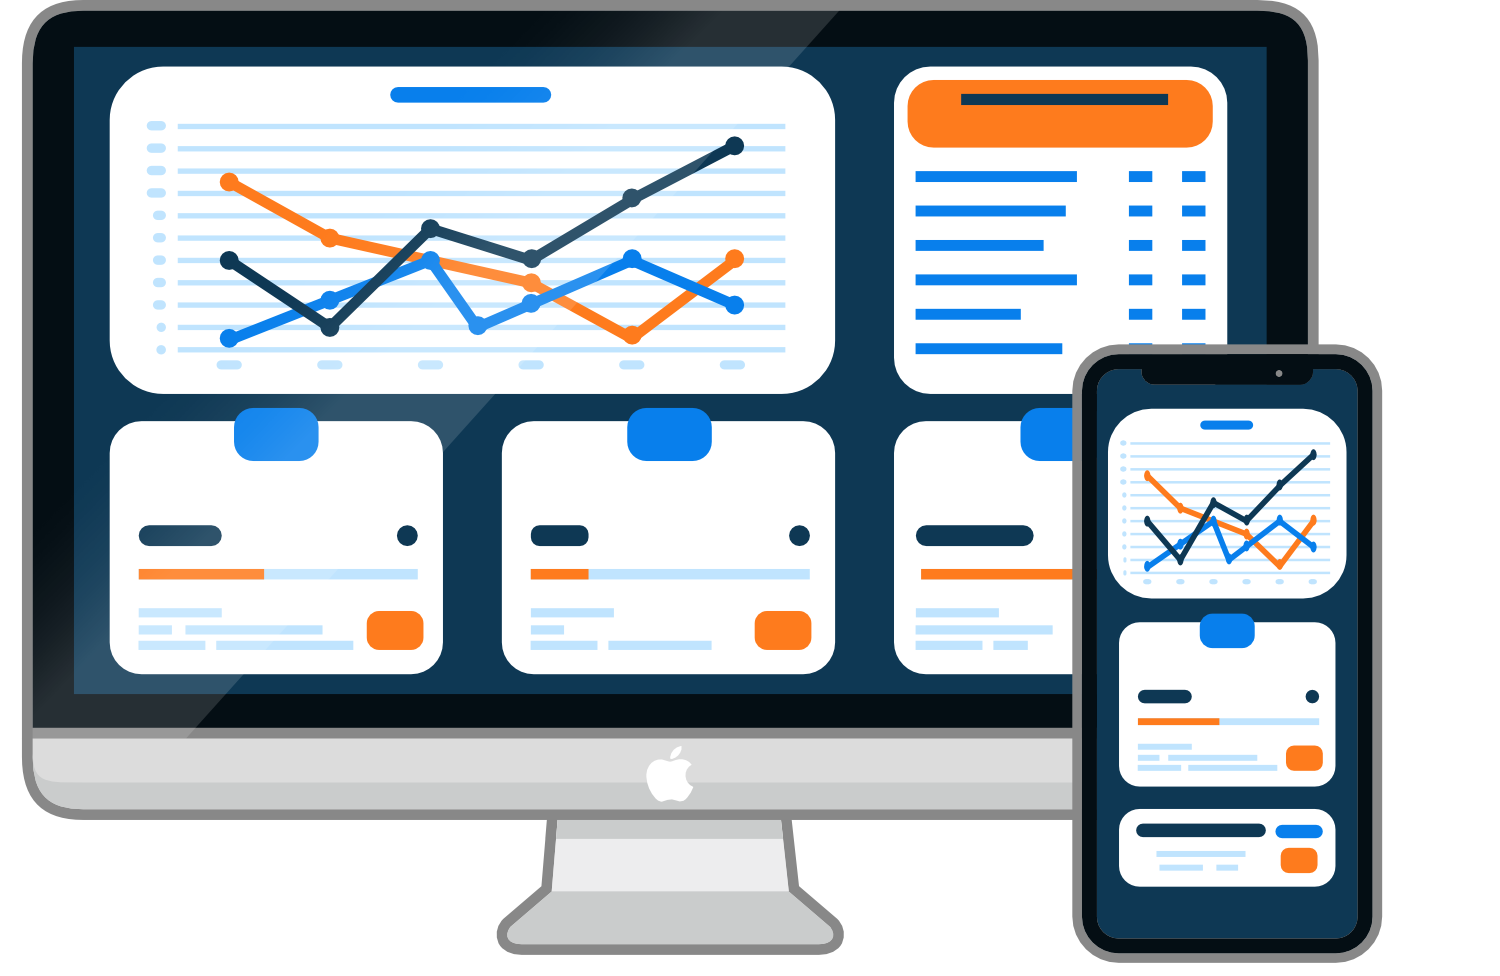
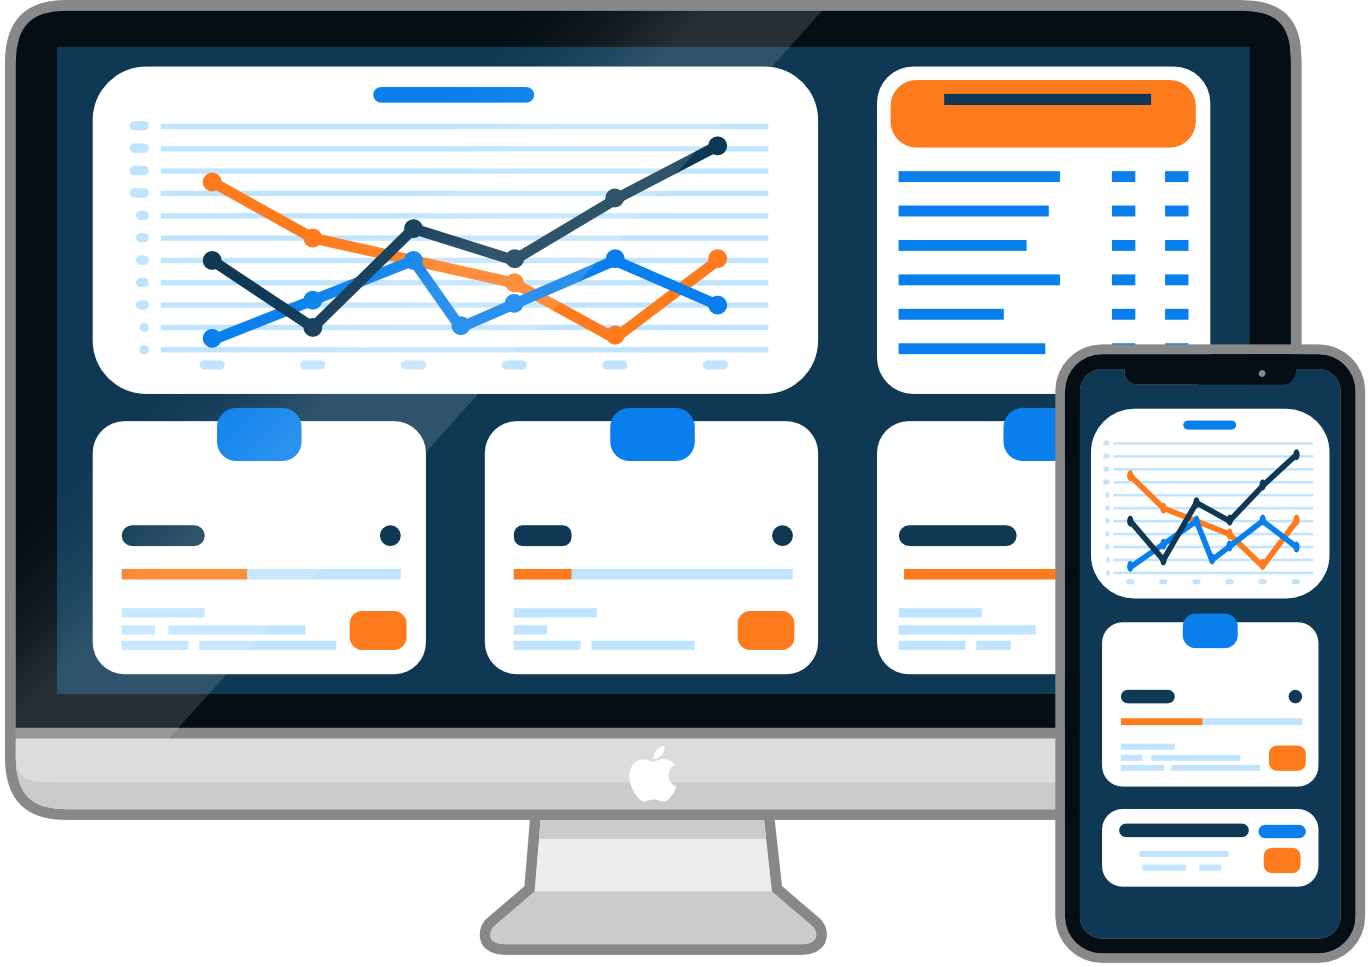
finished home page styles and responsiveness

diff --git a/home/templates/home/index.html b/home/templates/home/index.html
@@ -4,7 +4,7 @@
 {% block content %}
     <div id="content">
         <div class="container-fluid">
-            <div class="row navy-container-shadow mx-3">
+            <div class="row navy-container-shadow top-right-gradient mx-3">
                 <div class="col-md-6 my-auto">
                     <div class="py-1 mx-3">
 <!-- SM Screens -->
@@ -22,22 +22,21 @@
                     {% endif %}    
 <!-- MD/LG Screens -->              
                     {% if request.user.is_authenticated %}
+                        <h1 class="d-none d-md-flex home-callout white justify-content-center">
+                            Welcome Back,<br>NAME HERE!
+                        </h1>
+                    {% else %}
                         <h1 class="d-none d-md-flex header light-blue montserrat justify-content-center">
                             MR. PREGAME
                         </h1>
                         <h2 class="d-none d-md-flex white montserrat sub-header justify-content-center">
                             Sports Betting Management
                         </h2>
-                        
-                    {% else %}
-                        <h1 class="d-none d-md-flex home-callout white justify-content-center">
-                            Welcome Back,<br>NAME HERE!
-                        </h1>
                     {% endif %}
                     </div>    
                 </div>
                 <div class="col-12 col-md-6">
-                    <img src="/media/ipaddesk.png" class="img-fluid callout-img ml-2" alt="Responsive image">
+                    <img src="/media/ipaddesk.png" class="img-fluid img-shadow callout-img ml-2" alt="Responsive image">
                 </div>
             </div>
             <div class="row my-3">
@@ -54,32 +53,40 @@
                 </div>
             </div>
             <hr class="rounded orange-background mx-auto mt-4">
-            
+        {% if request.user.is_authenticated %}
+        
+        {% else %}
             <div class="row mx-3 mt-4">
-                <div class="col-6 d-flex justify-content-center align-items-center">
-                    <div class="w-50"><img src="/media/mockups.png" class="img-fluid img-shadow" alt="Responsive image"></div>
+                <div class="col-6 d-flex justify-content-center align-items-center navy-container-shadow top-right-gradient">
+                    <div class="home-img-row"><img src="/media/mockups.png" class="img-fluid img-resize img-shadow" alt="Responsive image"></div>
                 </div>
-                <div class="col-6 d-flex justify-content-center">
-                    <div class="w-50"><img src="/media/moneypile.png" class="img-fluid img-shadow" alt="Responsive image"></div>
+                <div class="col-6 d-flex justify-content-center navy-container-shadow top-left-gradient">
+                    <div class="home-img-row"><img src="/media/moneypile.png" class="img-fluid img-resize img-shadow" alt="Responsive image"></div>
                 </div>        
             </div>
-            <div class="row mx-3 mb-4">
-                <div class="col-6 d-flex justify-content-center">
-                    <h4 class="light-blue sub-header">Custom Pregame Research and Results</h4>
-                </div>
-                <div class="col-6 d-flex justify-content-center">
-                    <h4 class="light-blue sub-header">Win Big With Our Guranteed Game Picks!</h4>
-                </div>
-            </div>    
-        
-            <div class="row navy-container-shadow mx-3 p-3">
+            <div class="row mx-3 my-3">
                 <div class="col-6">
-                    <img class="d-flex justify-content-center img-fluid img-shadow mx-auto w-50" src="/media/money_bag3.png" alt="responsive image">
+                    <h4 class="d-flex justify-content-center light-blue sub-header font-700">Custom Pregame Research and Results</h4>
                 </div>
-                <div class="col-6 d-flex justify-content-center align-items-center my-3">
-                    <h1 class="home-callout white d-flex justify-content-center align-items-center h-100 my-auto">Better Pregame,<br>Better Betting,<br>Better Bettors.</h1>
+                <div class="col-6">
+                    <h4 class="d-flex justify-content-center light-blue sub-header font-700">Win Big With Our Guranteed Game Picks!</h4>
                 </div>
             </div>
+            <hr class="rounded orange-background mx-auto mb-4">    
+            <div class="row navy-container-shadow  top-left-gradient mx-3 p-2">
+                <div class="col-6 d-flex justify-content-center align-items-center">
+                    <div class="mr-moneybag"><img class="img-fluid img-shadow img-resize" src="/media/money_bag3.png" alt="responsive image"></div>
+                </div>
+                <div class="col-6 d-flex justify-content-center align-items-center my-3">
+                    <div class="flex-column justify-content-center align-items-center">
+                        <h1 class="better white">Better Pregame,<br>Better Betting,<br>Better Bettors.</h1>
+                        <div class="text-center">
+                            <h4><a class="orange better-link text-nowrap" href="{% url 'account_signup' %}">Click to get better today!</a></h4>
+                        </div>
+                    </div>  
+                </div>
+            </div>
+        {% endif %}    
         </div>
 
         

diff --git a/static/css/base.css b/static/css/base.css
@@ -4,7 +4,7 @@ body, html {
     margin: 0px;
     padding: 0px;
     font-family: 'Oswald', sans-serif;
-    background-color:rgb(1, 27, 65);
+    background-color:rgb(13, 29, 53);
 }
 
 .wrapper{
@@ -25,18 +25,27 @@ hr{
     width:85%;
 }
 
+img {
+    max-width:100%;
+    height:auto;
+}
+
 .montserrat{
     font-family: 'Montserrat', sans-serif;
     font-weight: 800;
 }
+
+.font-700{
+    font-weight:700;
+}
     
 /*---------- Colors ----------*/
 .dark-blue{
-    color:rgb(1, 27, 65);
+    color:rgb(19, 35, 58);
 }
 
 .dark-blue-background{
-    background-color:rgb(1, 27, 65);
+    background-color:rgb(19, 35, 58);
 }
 
 .blue{
@@ -66,6 +75,22 @@ hr{
 .white{
     color:#FFFFFF
 }
+
+/* Gradient - https://uigradients.com/#Royal */
+.top-left-gradient{
+    background: #141e30; /* fallback for old browsers */
+    background: -webkit-linear-gradient(to right,  #20354d, #141e30); /* Chrome 10-25, Safari 5.1-6 */
+    background: linear-gradient(to right,  #20354d, #141e30); /* W3C, IE 10+/ Edge, Firefox 16+, Chrome 26+, Opera 12+, Safari 7+ */
+
+
+}
+
+.top-right-gradient{
+    background: #141e30; /* fallback for old browsers */
+    background: -webkit-linear-gradient(to right, #141e30, #20354d); /* Chrome 10-25, Safari 5.1-6 */
+    background: linear-gradient(to right, #141e30, #20354d); /* W3C, IE 10+/ Edge, Firefox 16+, Chrome 26+, Opera 12+, Safari 7+ */
+}
+
 /*---------------------------------------- base.html ----------------------------------------*/
 
 /*---------- Navigation ----------*/
@@ -154,7 +179,6 @@ hr{
     border-radius: 23px;
     position:relative;
     left:4px;
-    filter: drop-shadow(0.35rem 0.35rem 0.4rem rgba(0, 0, 0, 0.534));
 }
 
 .header{
@@ -170,6 +194,10 @@ hr{
     font-size:5vw;
 }
 
+.home-img-row{
+    width:70%;
+}
+
 .register-link{
     font-size:3vw;
 }
@@ -178,8 +206,24 @@ hr{
     color:#C1E6FF;
 }
 
+.mr-moneybag{
+    width:50%;
+}
+
+.better{
+    font-size:5vw;
+}
+
+.better-link{
+    font-size:2vw;
+}
+
+.better-link:hover{
+    color:#C1E6FF;
+}
+
 .img-shadow{
-    filter: drop-shadow(0.35rem 0.35rem 0.4rem rgba(0, 0, 0, 0.534));
+    filter: drop-shadow(0.35rem 0.35rem 0.4rem rgba(0, 0, 0, 0.747));
 }
 
 
@@ -197,9 +241,12 @@ hr{
     }
 
     .home-callout,
-    .register-link,
-    .info-header{
+    .register-link{
         font-size:40px;
+    }
+
+    .home-img-row{
+        width:85%;
     }
 }
 
@@ -209,10 +256,22 @@ hr{
     }
 
     .home-callout,
-    .register-link,
-    .info-header{
+    .register-link{
         font-size:35px;
     }
+
+    .mr-moneybag{
+        width:75%;
+    }
+
+    .better{
+        font-size:25px;
+    }
+
+    .better-link{
+        font-size:12px;
+    }
+
 }
 
 @media (max-width: 475px) {
@@ -230,9 +289,20 @@ hr{
     }
 
     .home-callout,
-    .register-link,
-    .info-header{
+    .register-link{
         font-size:25px;
+    }
+
+    .better{
+        font-size:20px;
+    }
+
+    .better-link{
+        font-size:10px;
+    }
+
+    .home-img-row{
+        width:100%;
     }
 }
 
@@ -246,13 +316,16 @@ hr{
     }
 
     .home-callout,
-    .register-link,
-    .info-header{
+    .register-link{
         font-size:20px;
     }
 
     .mrpregame{
         font-size:20px;
+    }
+
+    .better{
+        font-size:15px;
     }
 }
 
@@ -274,14 +347,14 @@ hr{
     }
 
     .home-callout,
-    .register-link,
-    .info-header{
+    .register-link{
         font-size:17px;
     }
 }
 
 @media (min-width: 1500px) {
-    .mrpregame{
+    .mrpregame,
+    .sub-header{
         font-size:40px;
     }
 
@@ -296,11 +369,12 @@ hr{
     
     .list-inline li i{
         font-size:50px;
-}
+    }
 }
 
 @media (min-width: 2000px) {
-    .mrpregame{
+    .mrpregame,
+    .sub-header{
         font-size:50px;
     }
 

diff --git a/templates/base.html b/templates/base.html
@@ -14,7 +14,7 @@
         <link rel="stylesheet" href="https://stackpath.bootstrapcdn.com/bootstrap/5.0.0-alpha2/css/bootstrap.min.css" integrity="sha384-DhY6onE6f3zzKbjUPRc2hOzGAdEf4/Dz+WJwBvEYL/lkkIsI3ihufq9hk9K4lVoK" crossorigin="anonymous">
         <link rel="stylesheet" href="https://pro.fontawesome.com/releases/v5.15.1/css/all.css" integrity="sha384-9ZfPnbegQSumzaE7mks2IYgHoayLtuto3AS6ieArECeaR8nCfliJVuLh/GaQ1gyM" crossorigin="anonymous" type="text/css">
         <link rel="preconnect" href="https://fonts.gstatic.com">
-        <link href="https://fonts.googleapis.com/css2?family=Montserrat:wght@400;700;900&family=Oswald&display=swap" rel="stylesheet">
+        <link href="https://fonts.googleapis.com/css2?family=Montserrat:wght@400;700;900&family=Oswald:wght@400;500;700&display=swap" rel="stylesheet"> 
         <link rel="stylesheet" href="{% static 'css/base.css' %}">
     {% endblock %}
 

diff --git a/templates/includes/footer.html b/templates/includes/footer.html
@@ -1,9 +1,9 @@
 
     <div class="row mx-3 mb-1">
         <div class="d-none d-sm-block col-6 orange copyright">© 2021 Copyright: Mr. Pregame</div>
-        <div class="col-12 col-sm-6 text-center ">
+        <div class="col-12 col-sm-6 text-center">
             <ul class="list-inline float-sm-right">
-                <li class="mr-3">
+                <li class="mx-3">
                     <a target="_blank" href="https://www.facebook.com/">
                     <i class="fab fa-facebook-square orange" aria-hidden="true"></i>
                     <span class="sr-only">Facebook</span>
